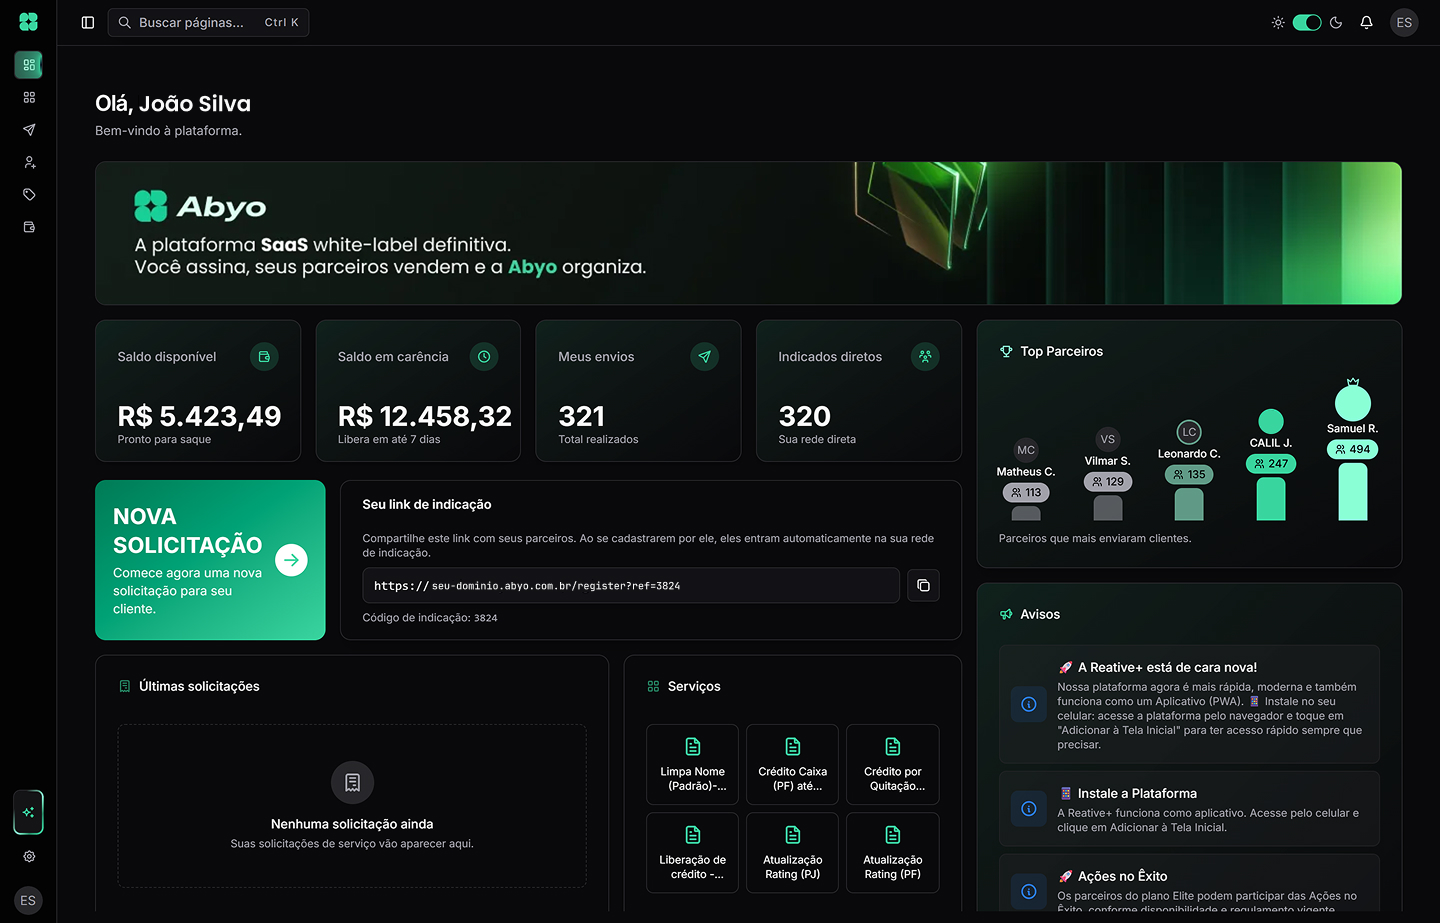
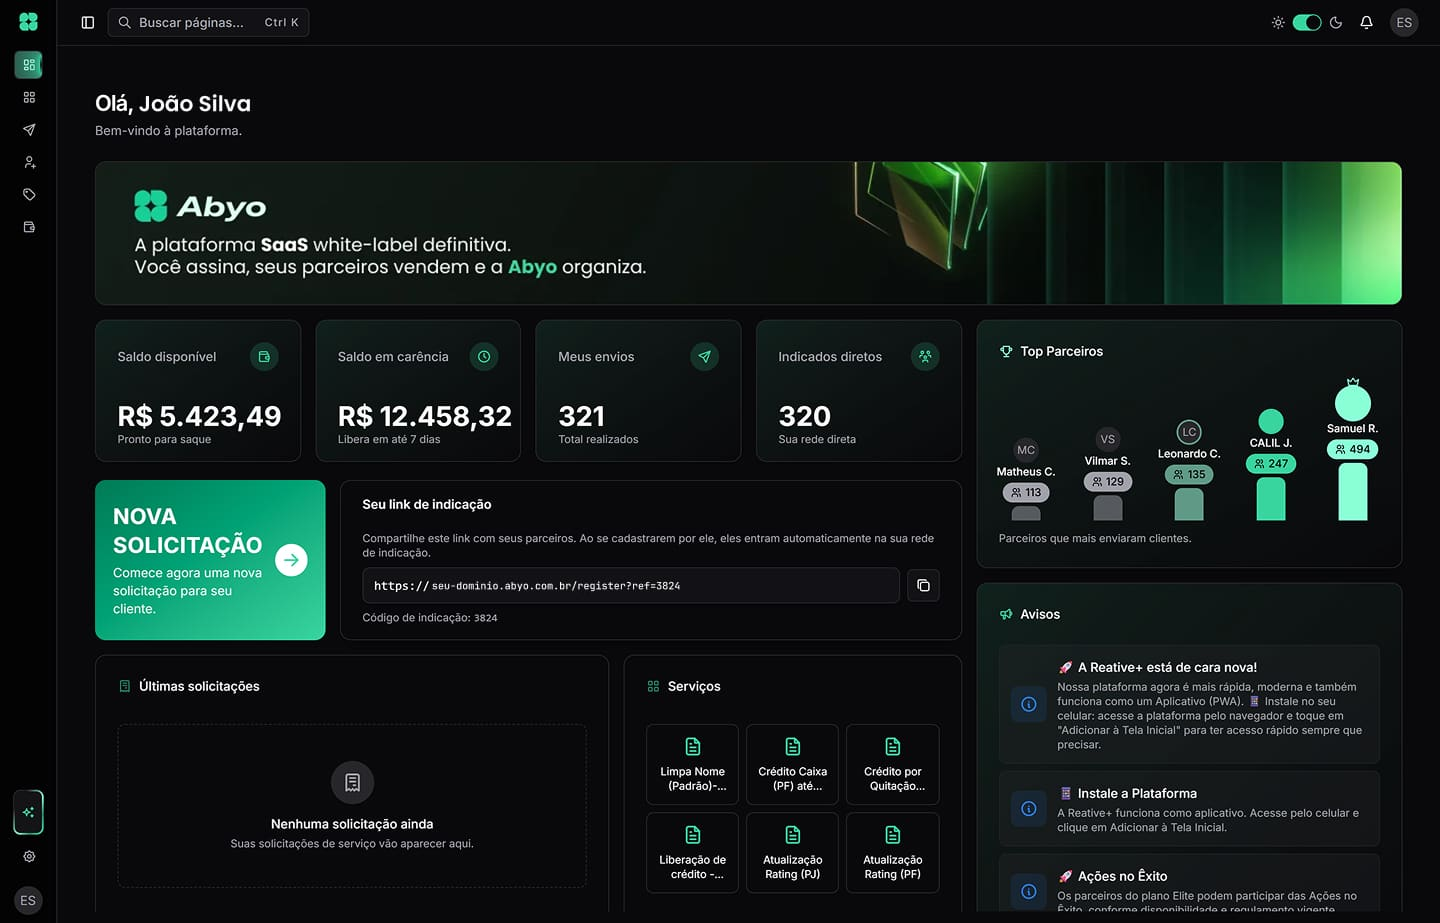
feat: add new image formats for hero dashboard and optimize image loading in components

diff --git a/src/components/hero-section.tsx b/src/components/hero-section.tsx
@@ -1,13 +1,16 @@
+import { ClientOnly } from "@tanstack/react-router";
 import { motion } from "framer-motion";
 import { ArrowRightIcon } from "lucide-react";
+import { lazy, Suspense } from "react";
 import { Glow, GridPattern } from "./decorative";
 import { HeroMockup } from "./hero-mockup";
-import LightRays from "./light-rays";
 import { Button } from "./ui/button";
 
+const LightRays = lazy(() => import("./light-rays"));
+
 const fadeUp = (delay: number) => ({
-	initial: { opacity: 0, y: 24 },
-	animate: { opacity: 1, y: 0 },
+	initial: { y: 24 },
+	animate: { y: 0 },
 	transition: { duration: 0.7, delay, ease: [0.16, 1, 0.3, 1] as const },
 });
 
@@ -17,20 +20,24 @@ export function HeroSection() {
 			<div className="relative mx-auto px-4 sm:px-6">
 				<div className="relative w-full overflow-hidden rounded-xl border border-white/10 bg-black px-6 pt-20 pb-12 sm:px-10 sm:pt-24 sm:mb-16 max-h-screen">
 					<div className="absolute inset-0 z-0 left-0 right-0 w-full">
-						<LightRays
-							raysOrigin="top-center"
-							raysColor="#39D59F"
-							raysSpeed={1}
-							lightSpread={1}
-							rayLength={2}
-							pulsating={false}
-							fadeDistance={1}
-							saturation={1}
-							followMouse
-							mouseInfluence={0.1}
-							noiseAmount={0}
-							distortion={0}
-						/>
+						<ClientOnly>
+							<Suspense fallback={null}>
+								<LightRays
+									raysOrigin="top-center"
+									raysColor="#39D59F"
+									raysSpeed={1}
+									lightSpread={1}
+									rayLength={2}
+									pulsating={false}
+									fadeDistance={1}
+									saturation={1}
+									followMouse
+									mouseInfluence={0.1}
+									noiseAmount={0}
+									distortion={0}
+								/>
+							</Suspense>
+						</ClientOnly>
 					</div>
 					<GridPattern />
 					<Glow className="-top-40 left-1/2 h-140 w-140 -translate-x-1/2 opacity-40" />

diff --git a/src/components/hero-mockup.tsx b/src/components/hero-mockup.tsx
@@ -17,16 +17,34 @@ export function HeroMockup() {
 			/>
 
 			<motion.div
-				initial={{ opacity: 0, scale: 0.94, y: 20 }}
-				animate={{ opacity: 1, scale: 1, y: 0 }}
+				initial={{ scale: 0.94, y: 20 }}
+				animate={{ scale: 1, y: 0 }}
 				transition={{ duration: 0.8, delay: 0.3, ease: [0.16, 1, 0.3, 1] }}
 				className="relative overflow-hidden rounded-lg border-x border-t-2 border-b-0 border-primary bg-white/3 shadow-[0_0_100px_-15px] shadow-primary/50 backdrop-blur-2xl"
 			>
-				<img
-					src="/assets/images/lp-hero-dashboard.jpg"
-					alt="Painel Abyo — comissões, rede de indicação e solicitações pagas"
-					className="aspect-auto w-full rounded-lg bg-linear-to-br from-primary/15 via-white/3 to-transparent object-cover"
-				/>
+				<picture>
+					<source
+						type="image/avif"
+						srcSet="/assets/images/lp-hero-dashboard-750.avif 750w, /assets/images/lp-hero-dashboard.avif 1440w"
+						sizes="(max-width: 768px) 100vw, 1152px"
+					/>
+					<source
+						type="image/webp"
+						srcSet="/assets/images/lp-hero-dashboard-750.webp 750w, /assets/images/lp-hero-dashboard.webp 1440w"
+						sizes="(max-width: 768px) 100vw, 1152px"
+					/>
+					<img
+						src="/assets/images/lp-hero-dashboard.jpg"
+						srcSet="/assets/images/lp-hero-dashboard-750.jpg 750w, /assets/images/lp-hero-dashboard.jpg 1440w"
+						sizes="(max-width: 768px) 100vw, 1152px"
+						alt="Painel Abyo — comissões, rede de indicação e solicitações pagas"
+						width={1440}
+						height={923}
+						fetchPriority="high"
+						decoding="async"
+						className="aspect-auto w-full rounded-lg bg-linear-to-br from-primary/15 via-white/3 to-transparent object-cover"
+					/>
+				</picture>
 				<div
 					aria-hidden
 					className="pointer-events-none absolute inset-x-0 bottom-0 h-1/2 bg-linear-to-t from-black to-transparent"

diff --git a/src/routes/__root.tsx b/src/routes/__root.tsx
@@ -124,6 +124,15 @@ export const Route = createRootRoute({
 		],
 		links: [
 			{
+				rel: "preconnect",
+				href: "https://fonts.googleapis.com",
+			},
+			{
+				rel: "preconnect",
+				href: "https://fonts.gstatic.com",
+				crossOrigin: "anonymous",
+			},
+			{
 				rel: "stylesheet",
 				href: appCss,
 			},
